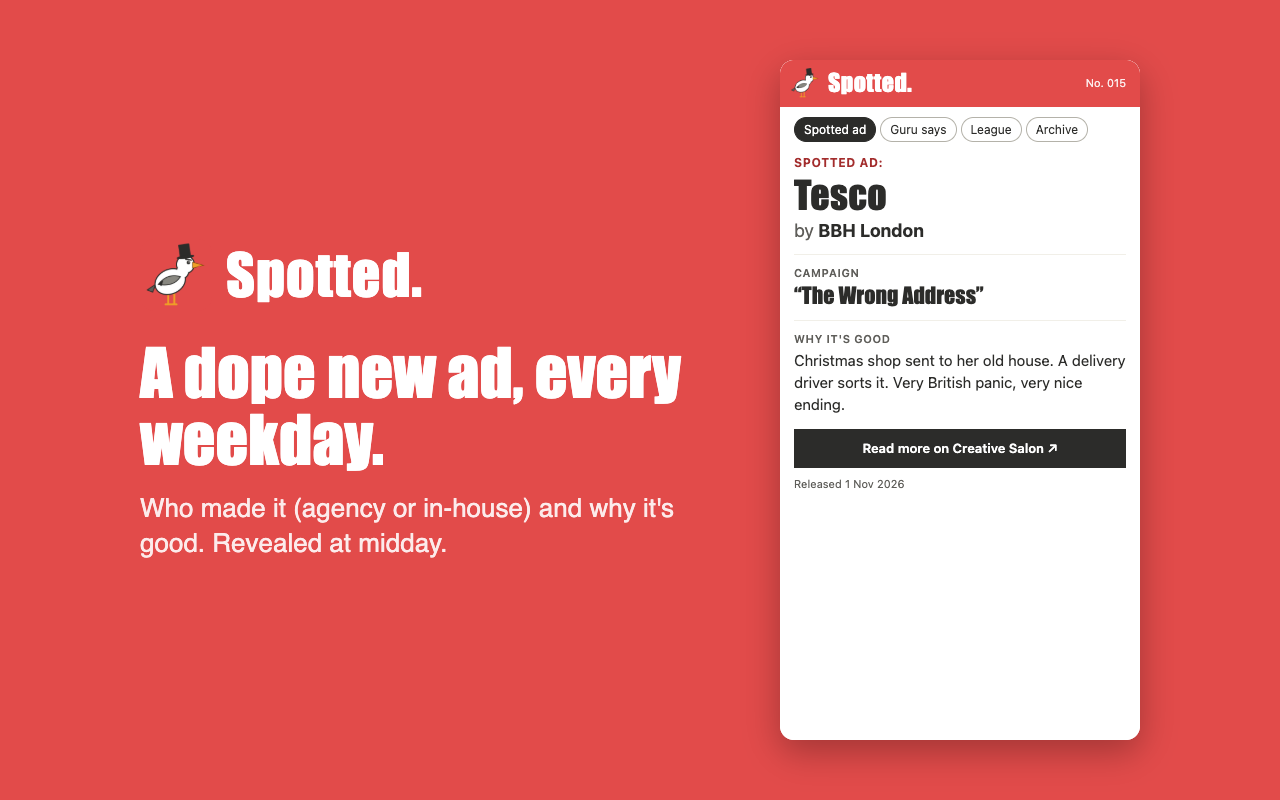
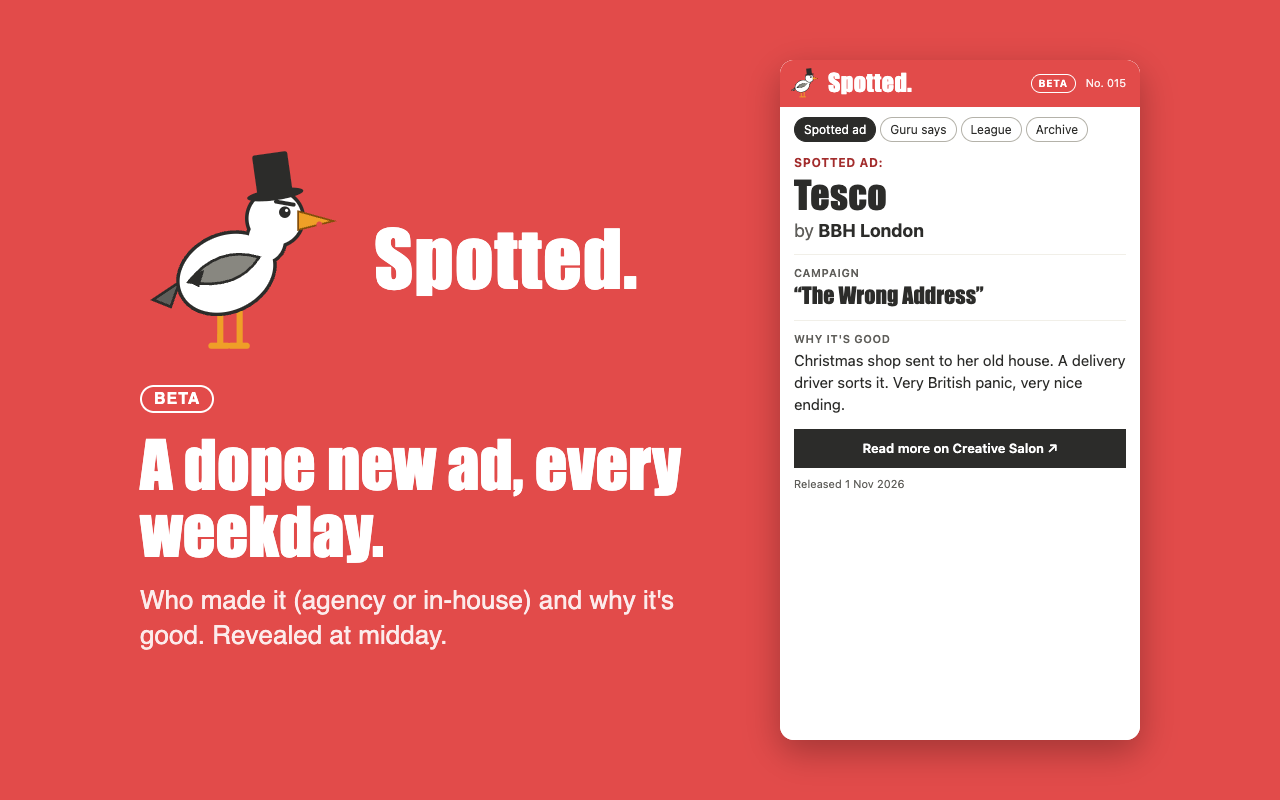
Store screenshots: Beta pill and a big gull on the first one
Also hides the popup's Beta pill on the League tab, where the long title
needs the room.

Changed region(s): [[0.0938, 0.1875, 0.5312, 0.8125], [0.8125, 0.0938, 0.8438, 0.125]]

diff --git a/docs/store/shot.html b/docs/store/shot.html
@@ -4,7 +4,7 @@
 <meta charset="utf-8">
 <title>Spotted. store screenshot</title>
 <!-- Renders the 1280x800 Chrome Web Store screenshots. Not part of the extension.
-     shot.html?date=2026-11-23&tab=spotlight&h=Headline&s=Subline -->
+     shot.html?date=2026-11-23&tab=spotlight&h=Headline&s=Subline (add &big=1 for the big gull) -->
 <style>
   html, body { margin: 0; }
   body { width: 1280px; height: 800px; overflow: hidden; background: #E24B4A;
@@ -14,6 +14,11 @@
   .brand { display: flex; align-items: center; gap: 14px; margin-bottom: 28px; }
   .brand img { width: 72px; height: 72px; }
   .brand span { font-family: Anton, Impact, sans-serif; font-size: 56px; letter-spacing: 1px; }
+  .brand .beta { font-family: inherit; font-size: 16px; font-weight: 700; letter-spacing: 1px; text-transform: uppercase; border: 2.5px solid #fff; border-radius: 99px; padding: 3px 12px; align-self: center; }
+  /* big=1: the big gull, for the first screenshot */
+  body.big .brand { flex-wrap: wrap; margin-bottom: 18px; }
+  body.big .brand img { width: 230px; height: 230px; flex-basis: 100%; max-width: 230px; margin: -10px 0 4px -10px; }
+  body.big .brand span:not(.beta) { font-size: 76px; }
   h1 { font-family: Anton, Impact, sans-serif; font-weight: 400; font-size: 64px; line-height: 1.05; margin: 0 0 18px; }
   p { font-size: 26px; line-height: 1.35; margin: 0; color: #FCEBEB; }
   .phone { width: 360px; height: 680px; background: #fff; border-radius: 14px; overflow: hidden; box-shadow: 0 12px 34px rgba(0,0,0,.28); }
@@ -22,13 +27,14 @@
 </head>
 <body>
   <div class="words">
-    <div class="brand"><img src="../../icons/gull-512.png" alt=""><span>Spotted.</span></div>
+    <div class="brand"><img src="../../icons/gull-512.png" alt=""><span>Spotted.</span><span class="beta">Beta</span></div>
     <h1 id="h"></h1>
     <p id="s"></p>
   </div>
   <div class="phone"><iframe id="f"></iframe></div>
   <script>
     const q = new URLSearchParams(location.search);
+    if (q.get('big')) { document.body.classList.add('big'); document.querySelector('.brand img').src = '../../icons/gull.svg'; }
     document.getElementById('h').textContent = q.get('h') || '';
     document.getElementById('s').textContent = q.get('s') || '';
     const extra = q.get('quote') ? '&quote=' + q.get('quote') : '';

diff --git a/popup.js b/popup.js
@@ -224,6 +224,7 @@ function showTab(name) {
   }
   for (const key of Object.keys(TITLES)) $('tab-' + key).hidden = key !== name;
   $('mast-title').textContent = TITLES[name];
+  document.querySelector('.beta-tag').hidden = name === 'league'; // the long title needs the room
   $('mast-meta').textContent = name === 'spotlight' ? ($('mast-meta').dataset.spotlight || '') : name === 'league' ? '2K26 season' : '';
   if (name === 'archive') closeArchiveItem();
 }
